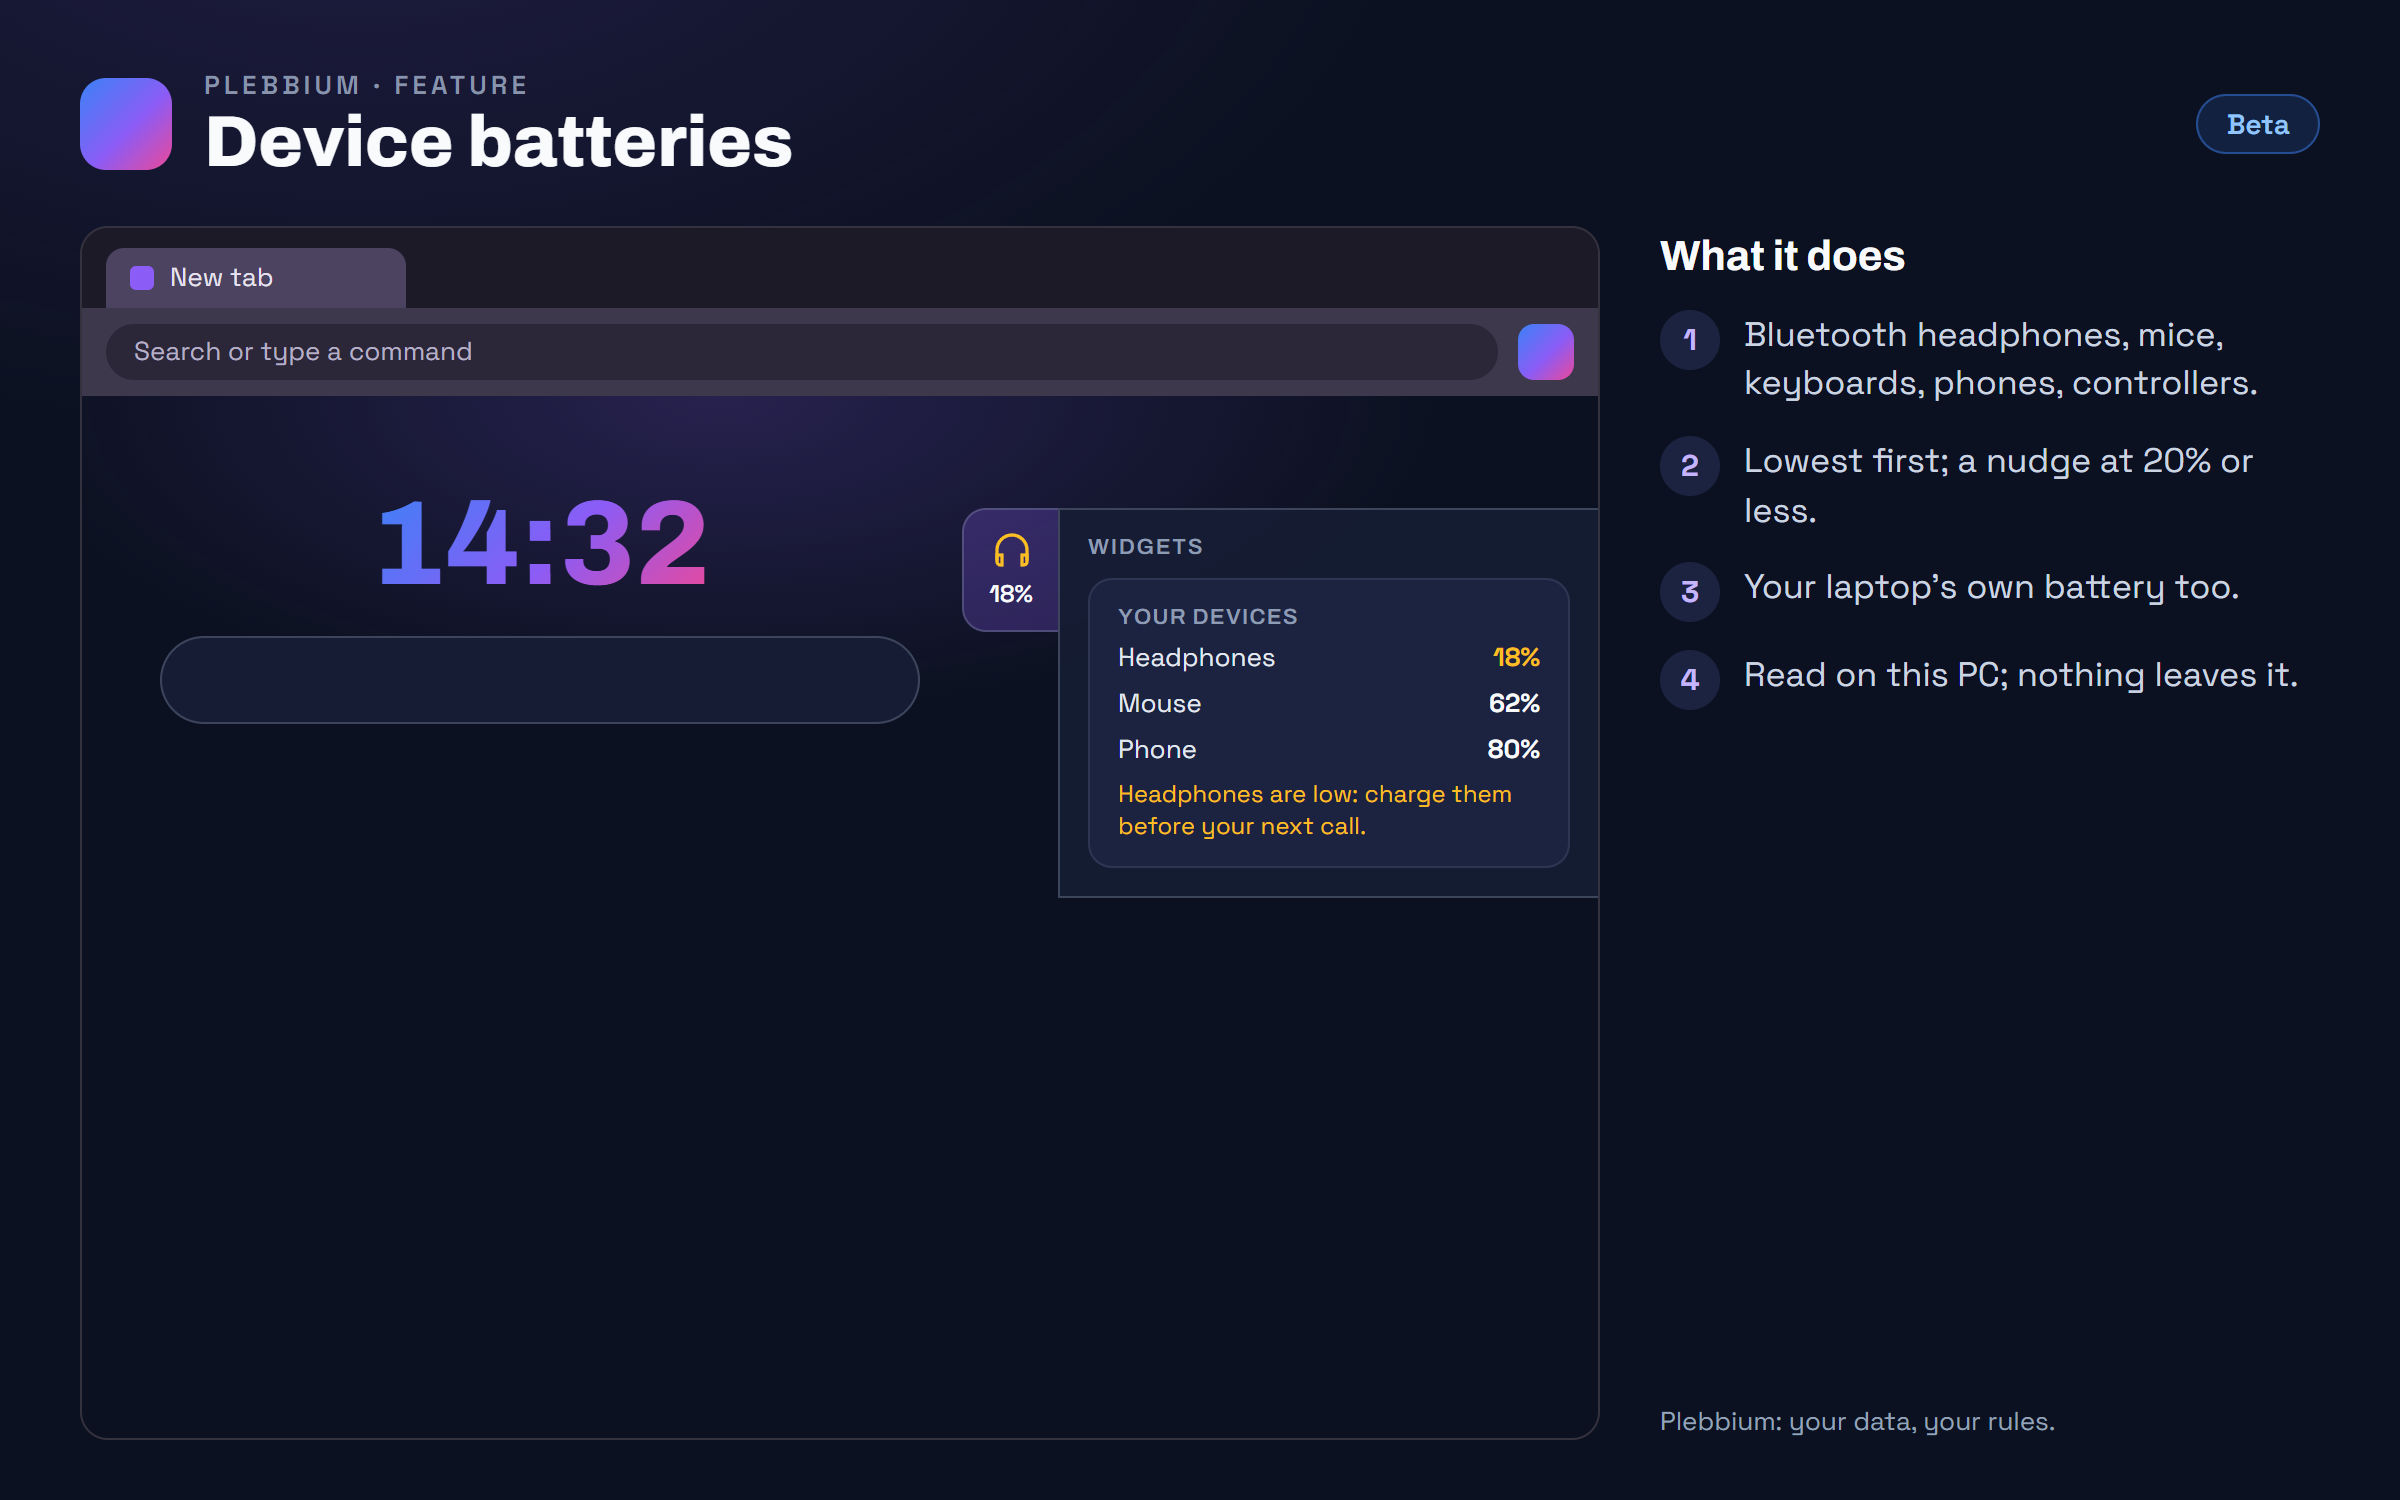
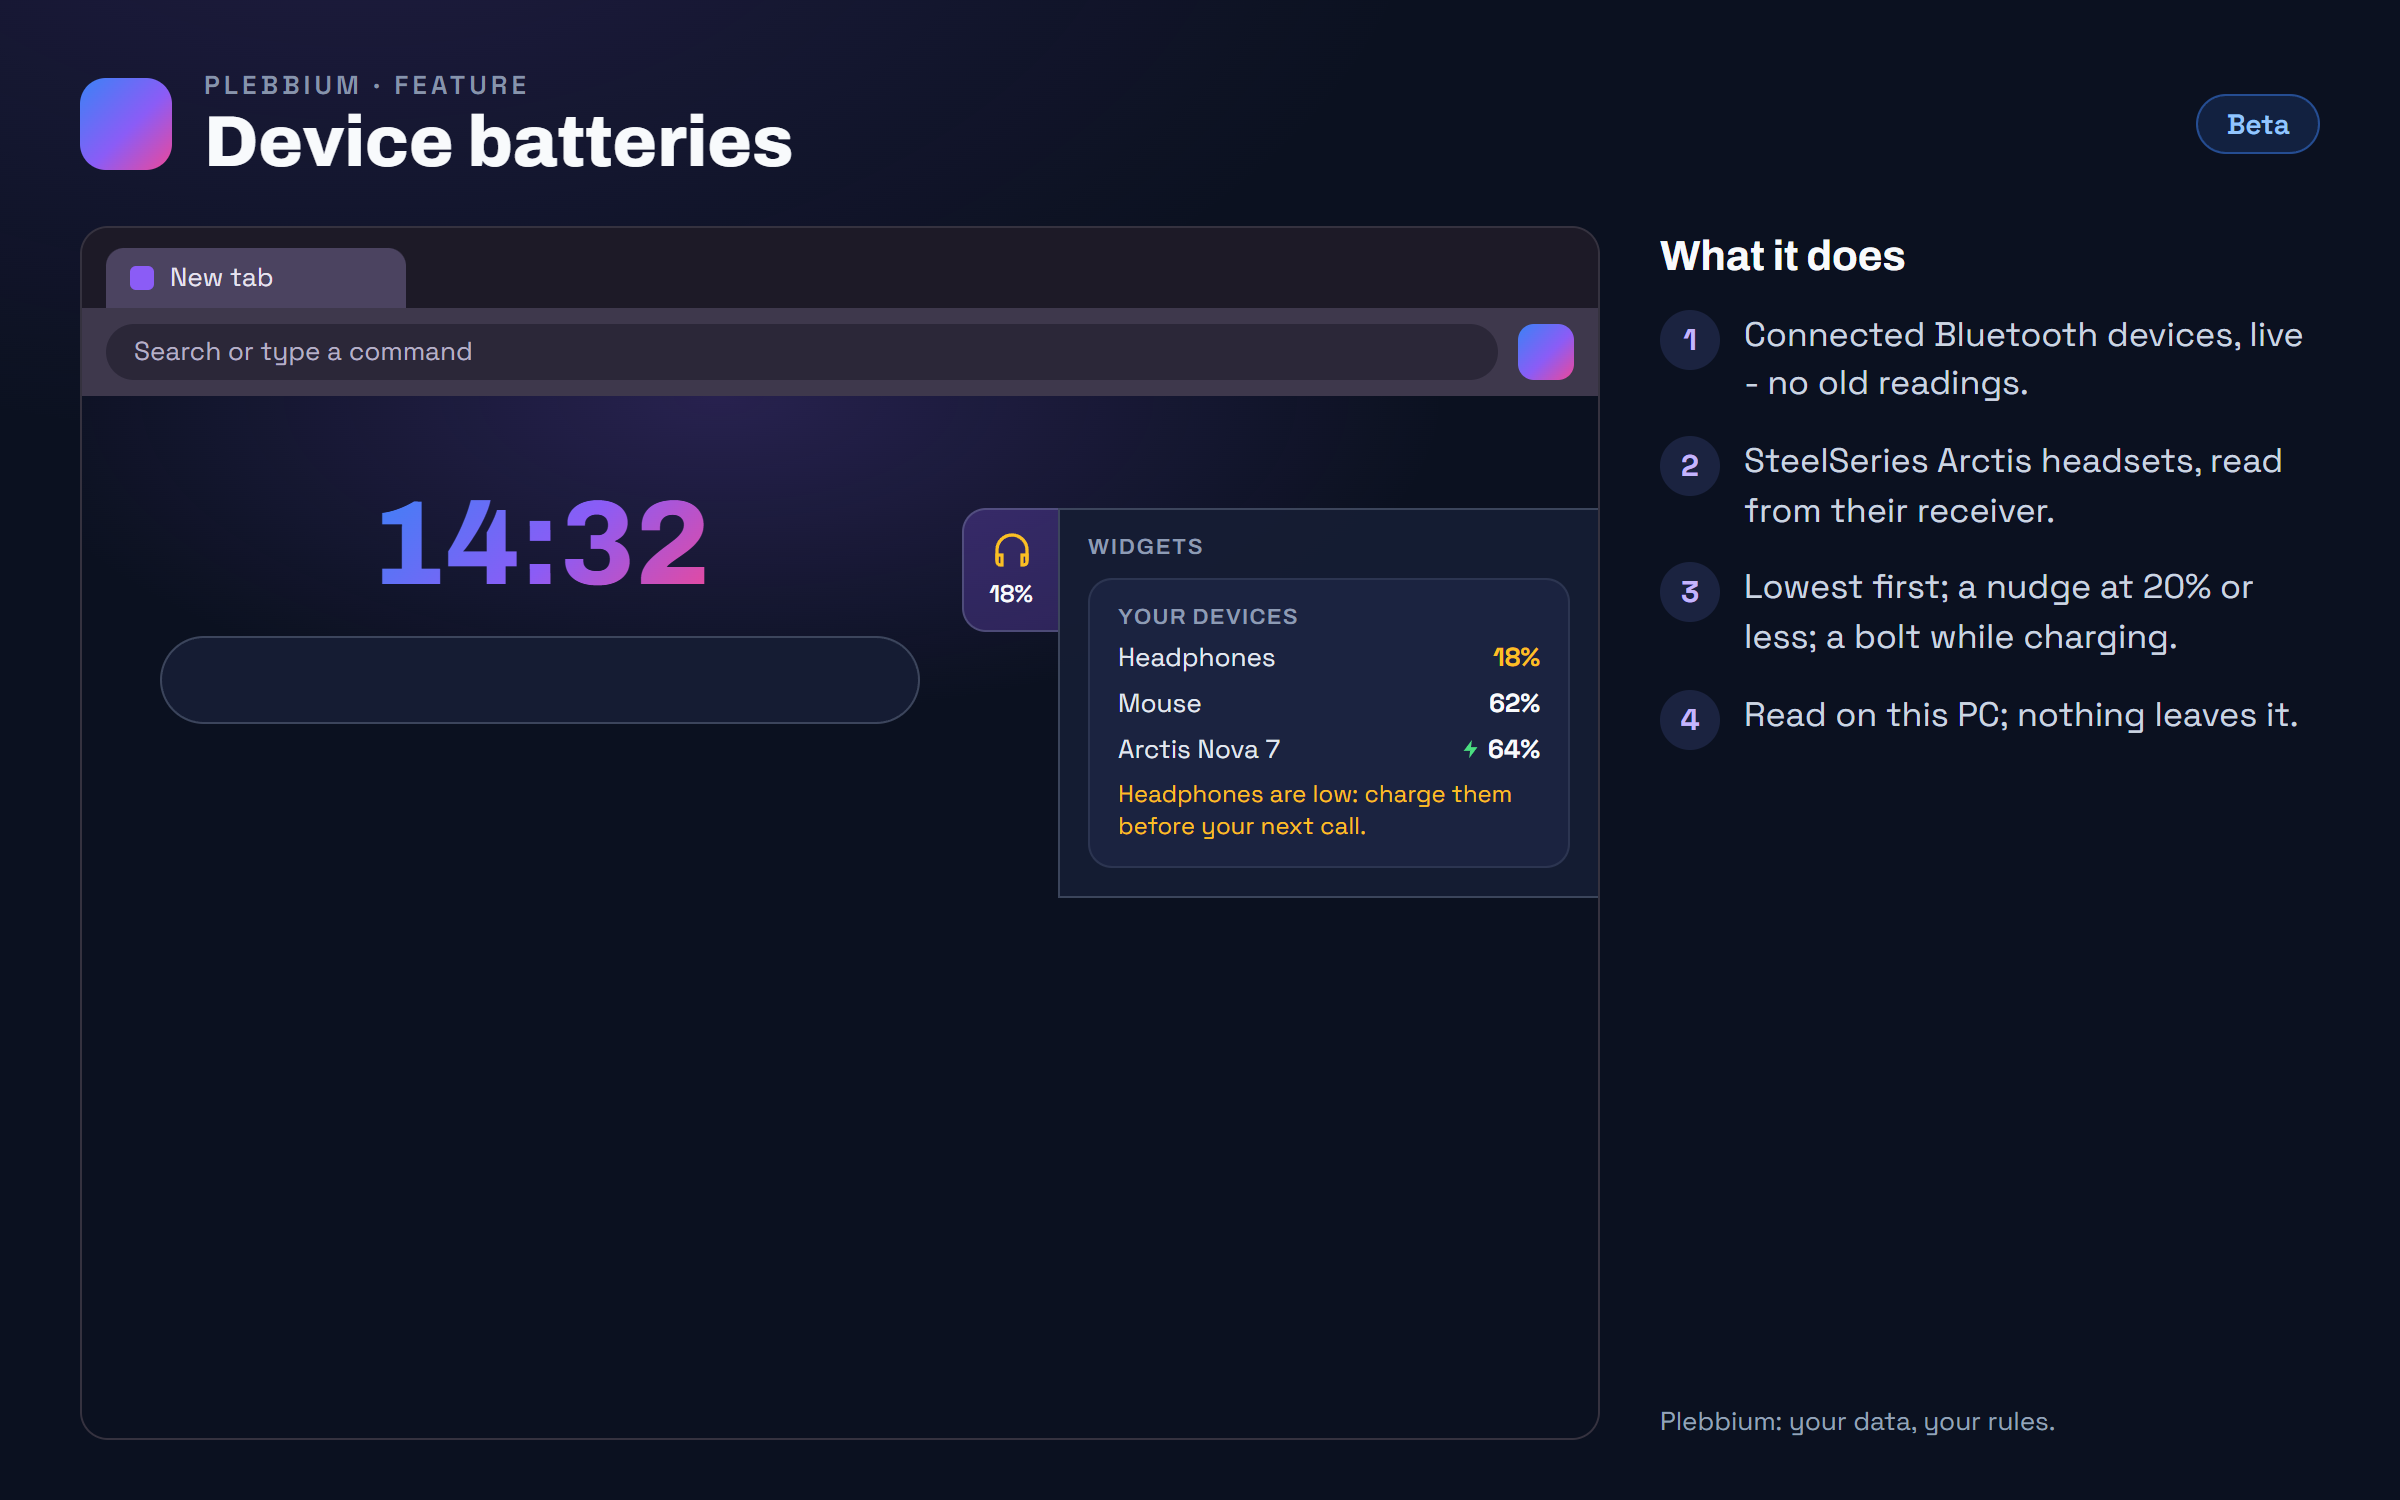
features page: 5 file(s) changed, 0 removed (1 board(s) redrawn)

Changed region(s): [[0.6875, 0.2147, 0.9688, 0.5213], [0.4688, 0.4907, 0.5312, 0.5213]]

diff --git a/features/device-batteries/index.html b/features/device-batteries/index.html
@@ -6,7 +6,7 @@
 <meta http-equiv="Content-Security-Policy" content="default-src 'none'; img-src 'self'; style-src 'self'; font-src 'self'; script-src 'self'; connect-src 'self'; base-uri 'none'; form-action 'none'">
 <meta name="referrer" content="no-referrer">
 <title>Device batteries · Plebbium features</title>
-<meta name="description" content="Your headphones&#39;, mouse&#39;s and phone&#39;s batteries in the new tab&#39;s widgets strip.">
+<meta name="description" content="Your headphones&#39;, mouse&#39;s and phone&#39;s batteries in the new tab&#39;s widgets strip - SteelSeries headsets too.">
 <link rel="icon" href="../icon.svg" type="image/svg+xml">
 <link rel="stylesheet" href="../site.css">
 <script src="../site.js" defer></script>
@@ -20,14 +20,15 @@
 <main id="main" class="wiki">
 <p class="crumbs"><a href="../">All features</a> › <a href="../#beta">In Beta</a> › Device batteries</p>
 <div class="title"><h1>Device batteries</h1><span class="chip be">Beta</span><span class="since">since 3619</span></div>
-<p class="lead">A card in the new tab&#39;s widgets strip with the batteries of your Bluetooth headphones, mice, keyboards, phones and controllers - and your laptop&#39;s - lowest first, with a nudge when one is low.</p>
+<p class="lead">A card in the new tab&#39;s widgets strip with the batteries of your connected Bluetooth headphones, mice, keyboards, phones and controllers, your SteelSeries Arctis headset on its USB receiver, and your laptop - lowest first, with a nudge when one is low.</p>
 <div class="cols">
 <div class="main">
-<figure class="board"><img src="../boards/device-batteries.png" width="1200" height="750" alt="The new tab&#39;s widgets strip open on a card: your devices, headphones 18 percent in amber, mouse 62, phone 80, and a nudge to charge the headphones.">
-<figcaption class="sr">What it does: Bluetooth headphones, mice, keyboards, phones, controllers. Lowest first; a nudge at 20% or less. Your laptop&#39;s own battery too. Read on this PC; nothing leaves it.</figcaption></figure>
+<figure class="board"><img src="../boards/device-batteries.png" width="1200" height="750" alt="The new tab&#39;s widgets strip open on a card: your devices, headphones 18 percent in amber, mouse 62, an Arctis Nova 7 charging at 64, and a nudge to charge the headphones.">
+<figcaption class="sr">What it does: Connected Bluetooth devices, live - no old readings. SteelSeries Arctis headsets, read from their receiver. Lowest first; a nudge at 20% or less; a bolt while charging. Read on this PC; nothing leaves it.</figcaption></figure>
 <section class="sec" aria-labelledby="h-use"><h2 id="h-use">How to use it</h2><ol class="steps"><li><span>Look: rest on the new tab&#39;s right edge, or click it.</span></li><li><span>Off: Plebbium settings › Widgets › Show your devices&#39; batteries.</span></li></ol></section>
-<section class="sec" aria-labelledby="h-when"><h2 id="h-when">When it arrived</h2><ul class="tl"><li><p class="v"><b>156.0.8078.3619</b><span>Beta 7 Nov 2026 · not on Stable yet</span></p><p>Device batteries in the widgets strip.</p></li></ul></section>
-<section class="sec" aria-labelledby="h-why"><h2 id="h-why">Why it works this way</h2><div class="why"><div><h3>What Windows knows</h3><p>The levels are the ones Windows shows in Settings › Bluetooth &amp; devices; Plebbium reads them on your PC, and nothing leaves it.</p></div><div><h3>Not every device</h3><p>Devices on their own USB receiver often don&#39;t tell Windows their battery, so Plebbium can&#39;t see them either.</p></div></div></section>
+<section class="sec" aria-labelledby="h-when"><h2 id="h-when">When it arrived</h2><ul class="tl"><li><p class="v"><b>156.0.8078.3619</b><span>Beta 7 Nov 2026 · not on Stable yet</span></p><p>Device batteries in the widgets strip.</p></li>
+<li><p class="v"><b>156.0.8078.3620</b><span>Beta 8 Nov 2026 · not on Stable yet</span></p><p>Only connected Bluetooth devices; SteelSeries Arctis headsets; a charging bolt.</p></li></ul></section>
+<section class="sec" aria-labelledby="h-why"><h2 id="h-why">Why it works this way</h2><div class="why"><div><h3>What Windows knows</h3><p>The levels are the ones Windows shows in Settings › Bluetooth &amp; devices; Plebbium reads them on your PC, and nothing leaves it.</p></div><div><h3>Not every device</h3><p>Devices on their own USB receiver often don&#39;t tell Windows their battery. SteelSeries Arctis headsets are the exception: Plebbium asks their receiver itself, as SteelSeries GG does (tested on an Arctis Nova 7; the other Arctis models follow the open-source HeadsetControl project&#39;s notes).</p></div></div></section>
 
 <nav class="pn" aria-label="More features"><a href="../public-holidays/">‹ Public holidays</a><a href="../formula-1/">Formula 1 ›</a></nav>
 </div>

diff --git a/features/index.html b/features/index.html
@@ -21,7 +21,7 @@
 <section class="hero">
 <h1>Everything in Plebbium</h1>
 <p class="lead">A Chromium browser for Windows with Pleb's features built in. Each one is shown the way it looks; open it for how to use it, when it arrived and why it works the way it does.</p>
-<p class="vers"><span class="ver st">Stable 156.0.8078.3617</span><span class="ver be">Beta 156.0.8078.3619</span><span class="ver us" id="in-use" hidden></span><span class="since">Updated 7 Nov 2026</span></p>
+<p class="vers"><span class="ver st">Stable 156.0.8078.3617</span><span class="ver be">Beta 156.0.8078.3620</span><span class="ver us" id="in-use" hidden></span><span class="since">Updated 8 Nov 2026</span></p>
 <p class="find" hidden><label for="find">Find a feature</label><input id="find" type="search" placeholder="Find a feature" autocomplete="off"></p>
 </section>
 <section class="row" id="shipped" aria-labelledby="h-shipped">
@@ -137,9 +137,9 @@
 <a href="public-holidays/"><img src="boards/public-holidays-card.png" width="600" height="375" alt="" loading="lazy" decoding="async">
 <span class="cb"><span class="h">Public holidays</span><span class="p">The next public holiday in the new tab&#39;s widgets strip, long weekends marked.</span>
 <span class="meta"><span class="chip be">Beta</span><span class="since">since features 0.13.0</span></span></span></a></li>
-<li class="card" data-words="device batteries your headphones&#39;, mouse&#39;s and phone&#39;s batteries in the new tab&#39;s widgets strip.">
+<li class="card" data-words="device batteries your headphones&#39;, mouse&#39;s and phone&#39;s batteries in the new tab&#39;s widgets strip - steelseries headsets too.">
 <a href="device-batteries/"><img src="boards/device-batteries-card.png" width="600" height="375" alt="" loading="lazy" decoding="async">
-<span class="cb"><span class="h">Device batteries</span><span class="p">Your headphones&#39;, mouse&#39;s and phone&#39;s batteries in the new tab&#39;s widgets strip.</span>
+<span class="cb"><span class="h">Device batteries</span><span class="p">Your headphones&#39;, mouse&#39;s and phone&#39;s batteries in the new tab&#39;s widgets strip - SteelSeries headsets too.</span>
 <span class="meta"><span class="chip be">Beta</span><span class="since">since 3619</span></span></span></a></li>
 <li class="card" data-words="formula 1 the next f1 session and the latest results in the new tab&#39;s widgets strip - no spoilers.">
 <a href="formula-1/"><img src="boards/formula-1-card.png" width="600" height="375" alt="" loading="lazy" decoding="async">
